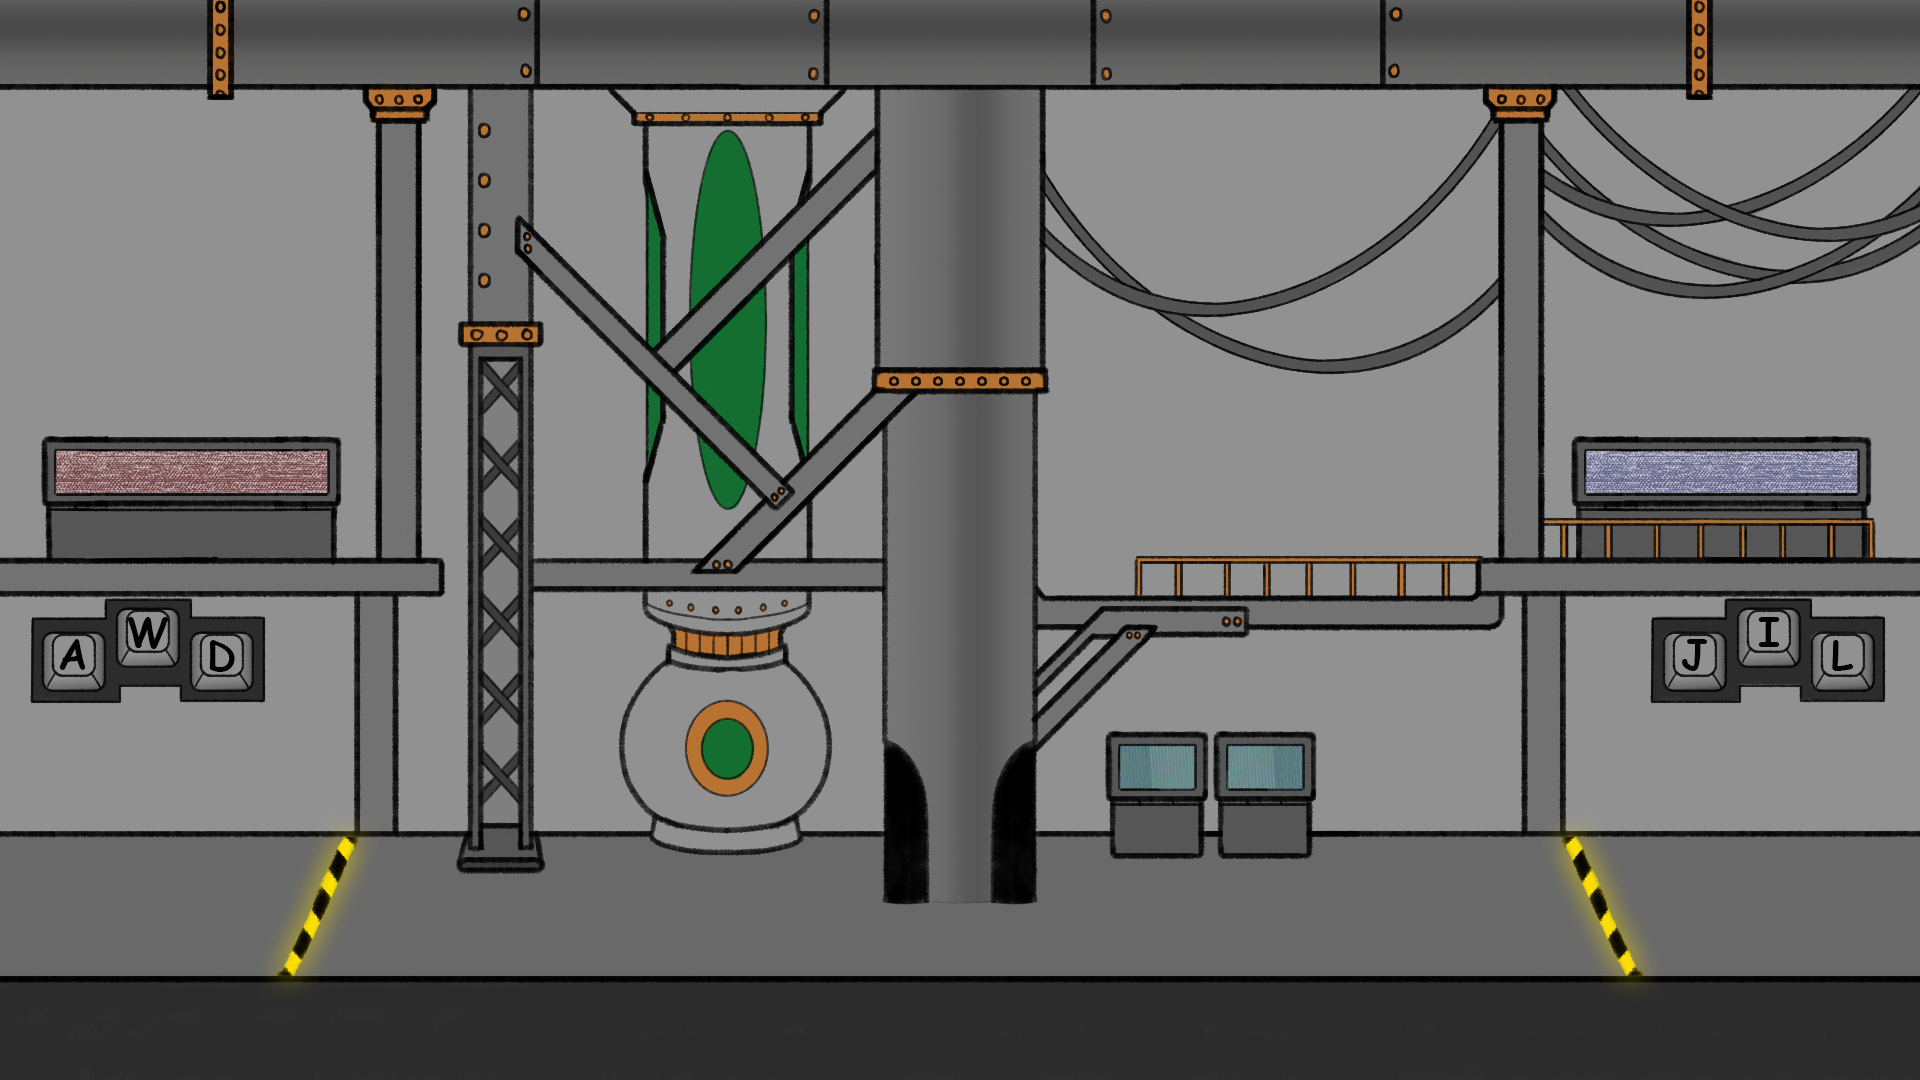
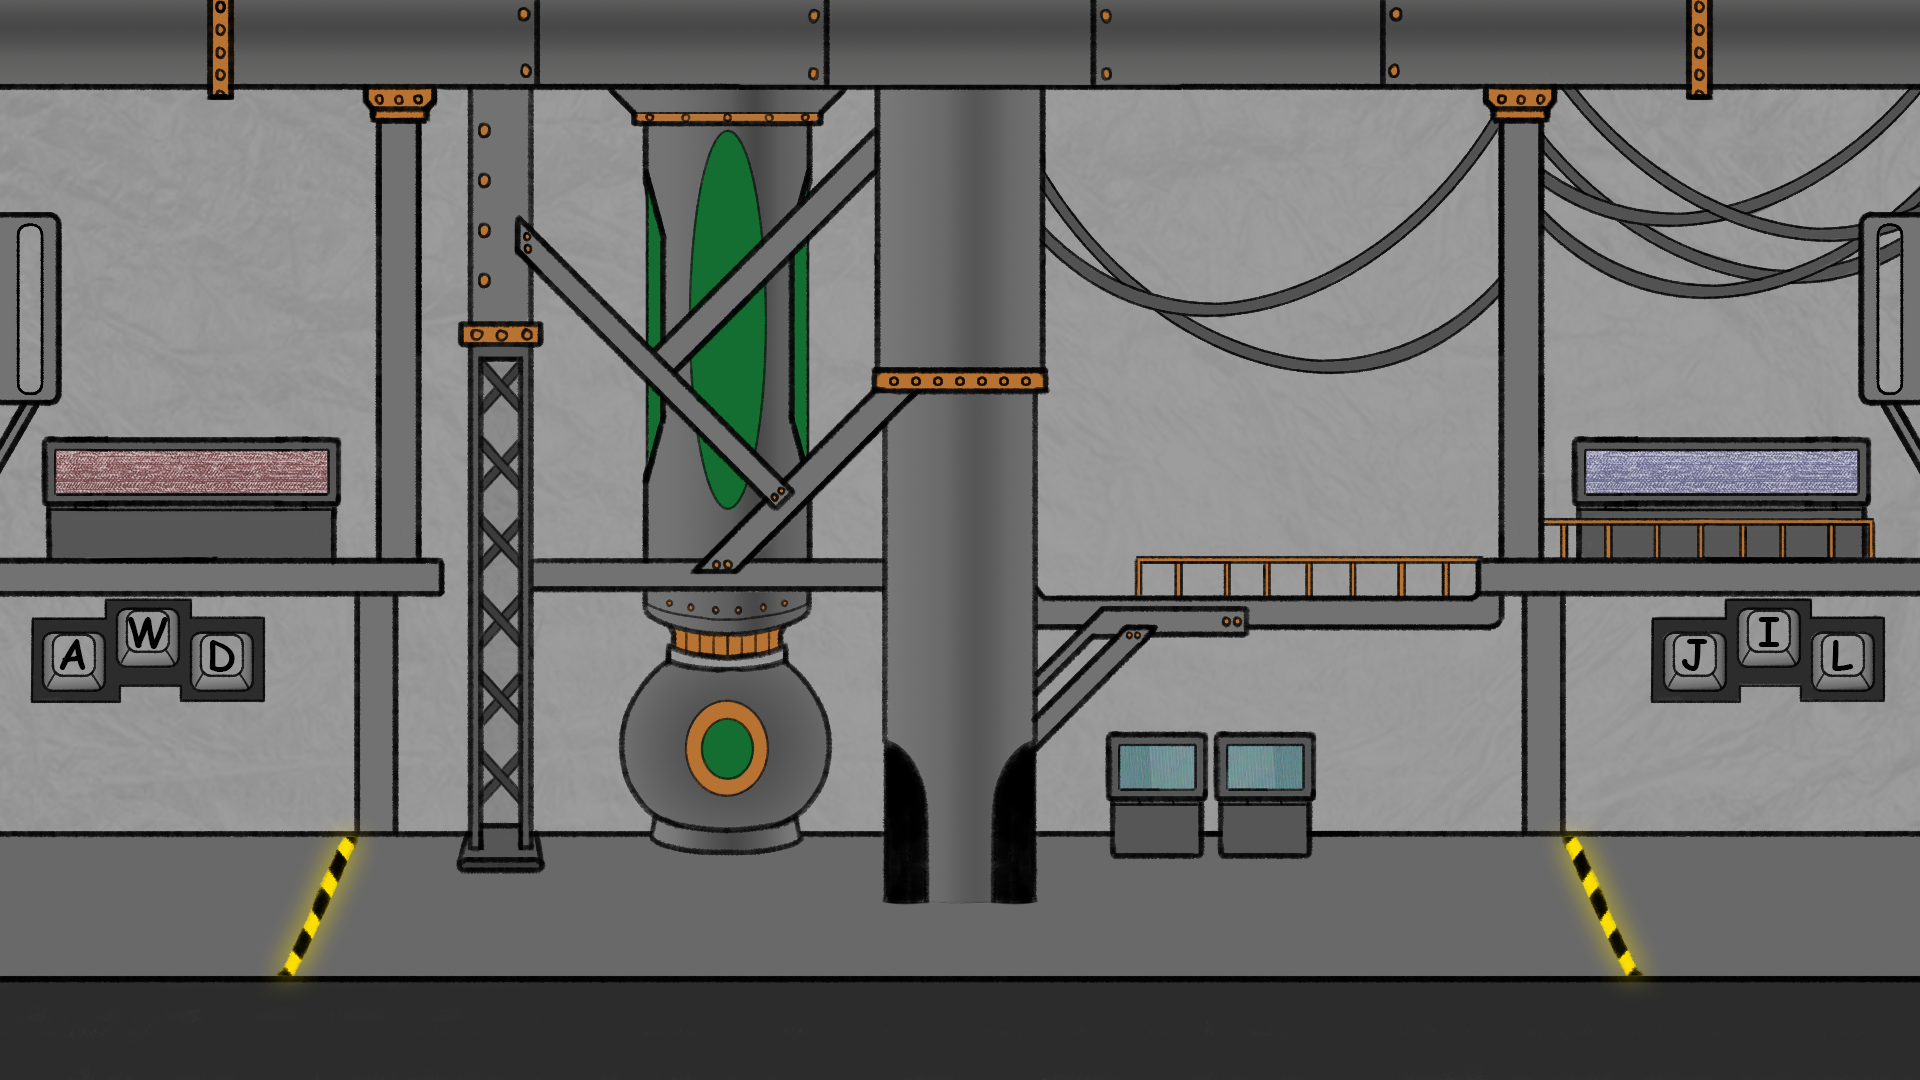
New images added

diff --git a/PlayPage.xaml b/PlayPage.xaml
@@ -63,7 +63,18 @@
             <Label x:Name="Player1Label" Background="Transparent" Content="" FontSize="25" FontWeight="Bold" FontFamily="Arial" Canvas.Bottom="570" Canvas.Left="55" Width="273" HorizontalContentAlignment="Center" Canvas.Top="450" HorizontalAlignment="Left" VerticalAlignment="Top" Height="43"/>
             <Label x:Name="Player2Label" Background="Transparent" Content="" FontSize="25" FontWeight="Bold" FontFamily="Arial" Canvas.Bottom="570" Canvas.Left="1585" Width="273" HorizontalContentAlignment="Center" Canvas.Top="450" HorizontalAlignment="Center" Height="43" VerticalAlignment="Center"/>
             <Frame x:Name="Play" NavigationUIVisibility="Hidden" Height="1080" Width="1920" Navigated="Play_Navigated" Canvas.Left="-25" Canvas.Top="10"/>
+
+            <Canvas HorizontalAlignment="Left" Canvas.Left="62" VerticalAlignment="Center">
+                <Image Source="/Water Tank PNG.png" Width="63" Canvas.Left="1797" Canvas.Top="212" HorizontalAlignment="Left" VerticalAlignment="Center"/>
+                <Image Source="/Water Tank PNG.png" Width="63" HorizontalAlignment="Center" Canvas.Top="212" VerticalAlignment="Top">
+                    <Image.RenderTransform>
+                        <ScaleTransform ScaleX="-1"/>
+                    </Image.RenderTransform>
+                </Image>
+            </Canvas>
         </Canvas>
+
+
     </Grid>
 </Page>
 
